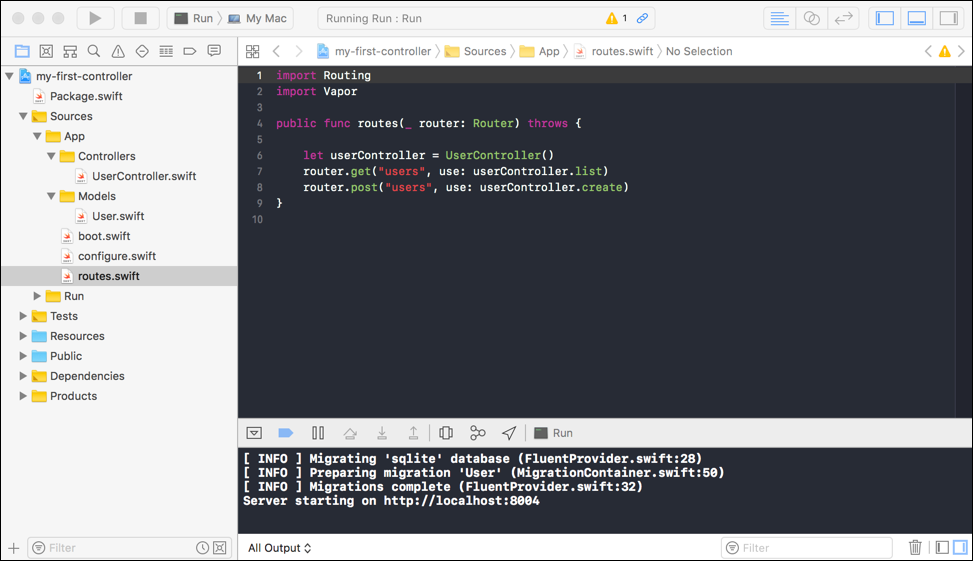
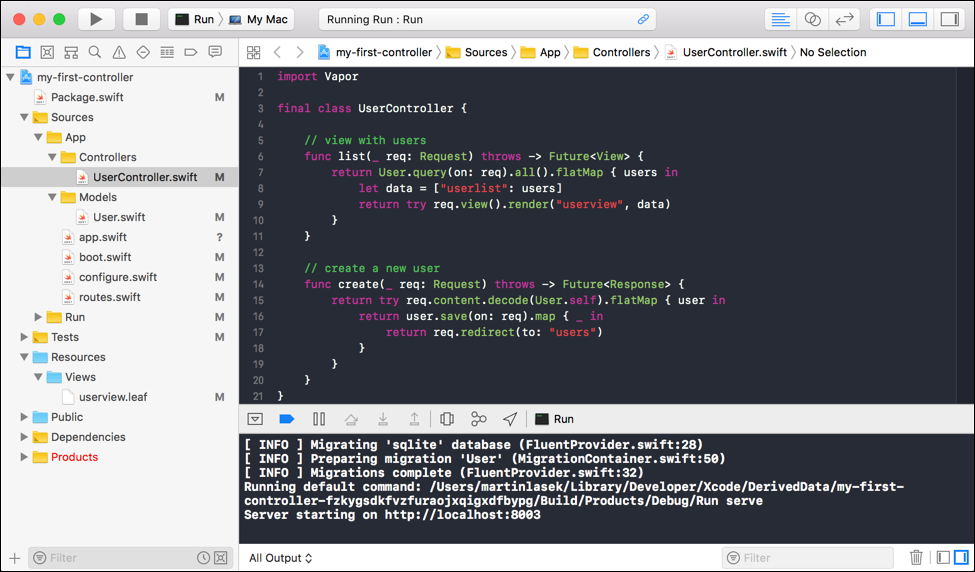
update code for latest vapor 3 changes

diff --git a/Sources/App/configure.swift b/Sources/App/configure.swift
@@ -2,26 +2,27 @@ import Vapor
 import Leaf
 import FluentSQLite
 
+/// Called before your application initializes.
 public func configure(
     _ config: inout Config,
     _ env: inout Environment,
     _ services: inout Services
 ) throws {
 
-    // Register routes to the router
+    /// Register routes to the router
     let router = EngineRouter.default()
     try routes(router)
     services.register(router, as: Router.self)
 
-    let myService = EngineServerConfig.default(port: 8004)
+    let myService = NIOServerConfig.default(port: 8003)
     services.register(myService)
 
-    try services.register(LeafProvider())
+    let leafProvider = LeafProvider()
+    try services.register(leafProvider)
     try services.register(FluentSQLiteProvider())
+    config.prefer(LeafRenderer.self, for: ViewRenderer.self)
 
-    config.prefer(LeafRenderer.self, for: TemplateRenderer.self)
-
-    var databases = DatabaseConfig()
+    var databases = DatabasesConfig()
     try databases.add(database: SQLiteDatabase(storage: .memory), as: .sqlite)
     services.register(databases)
 

diff --git a/Sources/App/Controllers/UserController.swift b/Sources/App/Controllers/UserController.swift
@@ -2,20 +2,20 @@ import Vapor
 
 final class UserController {
 
+    // view with users
     func list(_ req: Request) throws -> Future<View> {
-        let allUsers = User.query(on: req).all()
-
-        return allUsers.flatMap(to: View.self) { users in
+        return User.query(on: req).all().flatMap { users in
             let data = ["userlist": users]
             return try req.view().render("userview", data)
         }
     }
 
+    // create a new user
     func create(_ req: Request) throws -> Future<Response> {
-        let user = try req.content.decode(User.self)
-
-        return user.save(on: req).map(to: Response.self) { _ in
-            return req.redirect(to: "users")
+        return try req.content.decode(User.self).flatMap { user in
+            return user.save(on: req).map { _ in
+                return req.redirect(to: "users")
+            }
         }
     }
 }

diff --git a/Package.swift b/Package.swift
@@ -5,14 +5,14 @@ let package = Package(
     name: "my-first-controller",
     dependencies: [
         // 💧 A server-side Swift web framework.
-        .package(url: "https://github.com/vapor/vapor.git", from: "3.0.0-rc"),
+        .package(url: "https://github.com/vapor/vapor.git", from: "3.0.0"),
         .package(url: "https://github.com/vapor/leaf.git", from: "3.0.0-rc"),
-        .package(url: "https://github.com/vapor/fluent-sqlite.git", from: "3.0.0-rc")
+	.package(url: "https://github.com/vapor/fluent-sqlite.git", from: "3.0.0-rc")
     ],
     targets: [
         .target(name: "App", dependencies: ["Vapor", "Leaf", "FluentSQLite"]),
         .target(name: "Run", dependencies: ["App"]),
-        .testTarget(name: "AppTests", dependencies: ["App"]),
+        .testTarget(name: "AppTests", dependencies: ["App"])
     ]
 )
 

diff --git a/Sources/Run/main.swift b/Sources/Run/main.swift
@@ -1,26 +1,3 @@
 import App
-import Service
-import Vapor
-import Foundation
 
-// The contents of main are wrapped in a do/catch block because any errors that get raised to the top level will crash Xcode
-do {
-    var config = Config.default()
-    var env = try Environment.detect()
-    var services = Services.default()
-    
-    try App.configure(&config, &env, &services)
-    
-    let app = try Application(
-        config: config,
-        environment: env,
-        services: services
-    )
-    
-    try App.boot(app)
-    
-    try app.run()
-} catch {
-    print(error)
-    exit(1)
-}
+try app(.detect()).run()

diff --git a/Sources/App/app.swift b/Sources/App/app.swift
@@ -1,0 +1,12 @@
+import Vapor
+
+/// Creates an instance of Application. This is called from main.swift in the run target.
+public func app(_ env: Environment) throws -> Application {
+    var config = Config.default()
+    var env = env
+    var services = Services.default()
+    try configure(&config, &env, &services)
+    let app = try Application(config: config, environment: env, services: services)
+    try boot(app)
+    return app
+}

diff --git a/Tests/AppTests/AppTests.swift b/Tests/AppTests/AppTests.swift
@@ -1,13 +1,13 @@
 import App
-import Dispatch
 import XCTest
 
-final class AppTests : XCTestCase {
+final class AppTests: XCTestCase {
     func testNothing() throws {
+        // add your tests here
         XCTAssert(true)
     }
 
     static let allTests = [
-        ("testNothing", testNothing),
+        ("testNothing", testNothing)
     ]
 }

diff --git a/Sources/App/Models/User.swift b/Sources/App/Models/User.swift
@@ -4,13 +4,10 @@ import Vapor
 final class User: SQLiteModel {
     var id: Int?
     var username: String
-
     init(id: Int? = nil, username: String) {
         self.id = id
         self.username = username
     }
 }
-
 extension User: Content {}
-
 extension User: Migration {}

diff --git a/Sources/App/boot.swift b/Sources/App/boot.swift
@@ -1,9 +1,6 @@
-import Routing
 import Vapor
 
 /// Called after your application has initialized.
-///
-/// [Learn More →](https://docs.vapor.codes/3.0/getting-started/structure/#bootswift)
 public func boot(_ app: Application) throws {
     // your code here
 }

diff --git a/Sources/App/routes.swift b/Sources/App/routes.swift
@@ -1,6 +1,6 @@
-import Routing
 import Vapor
 
+/// Register your application's routes here.
 public func routes(_ router: Router) throws {
 
     let userController = UserController()
